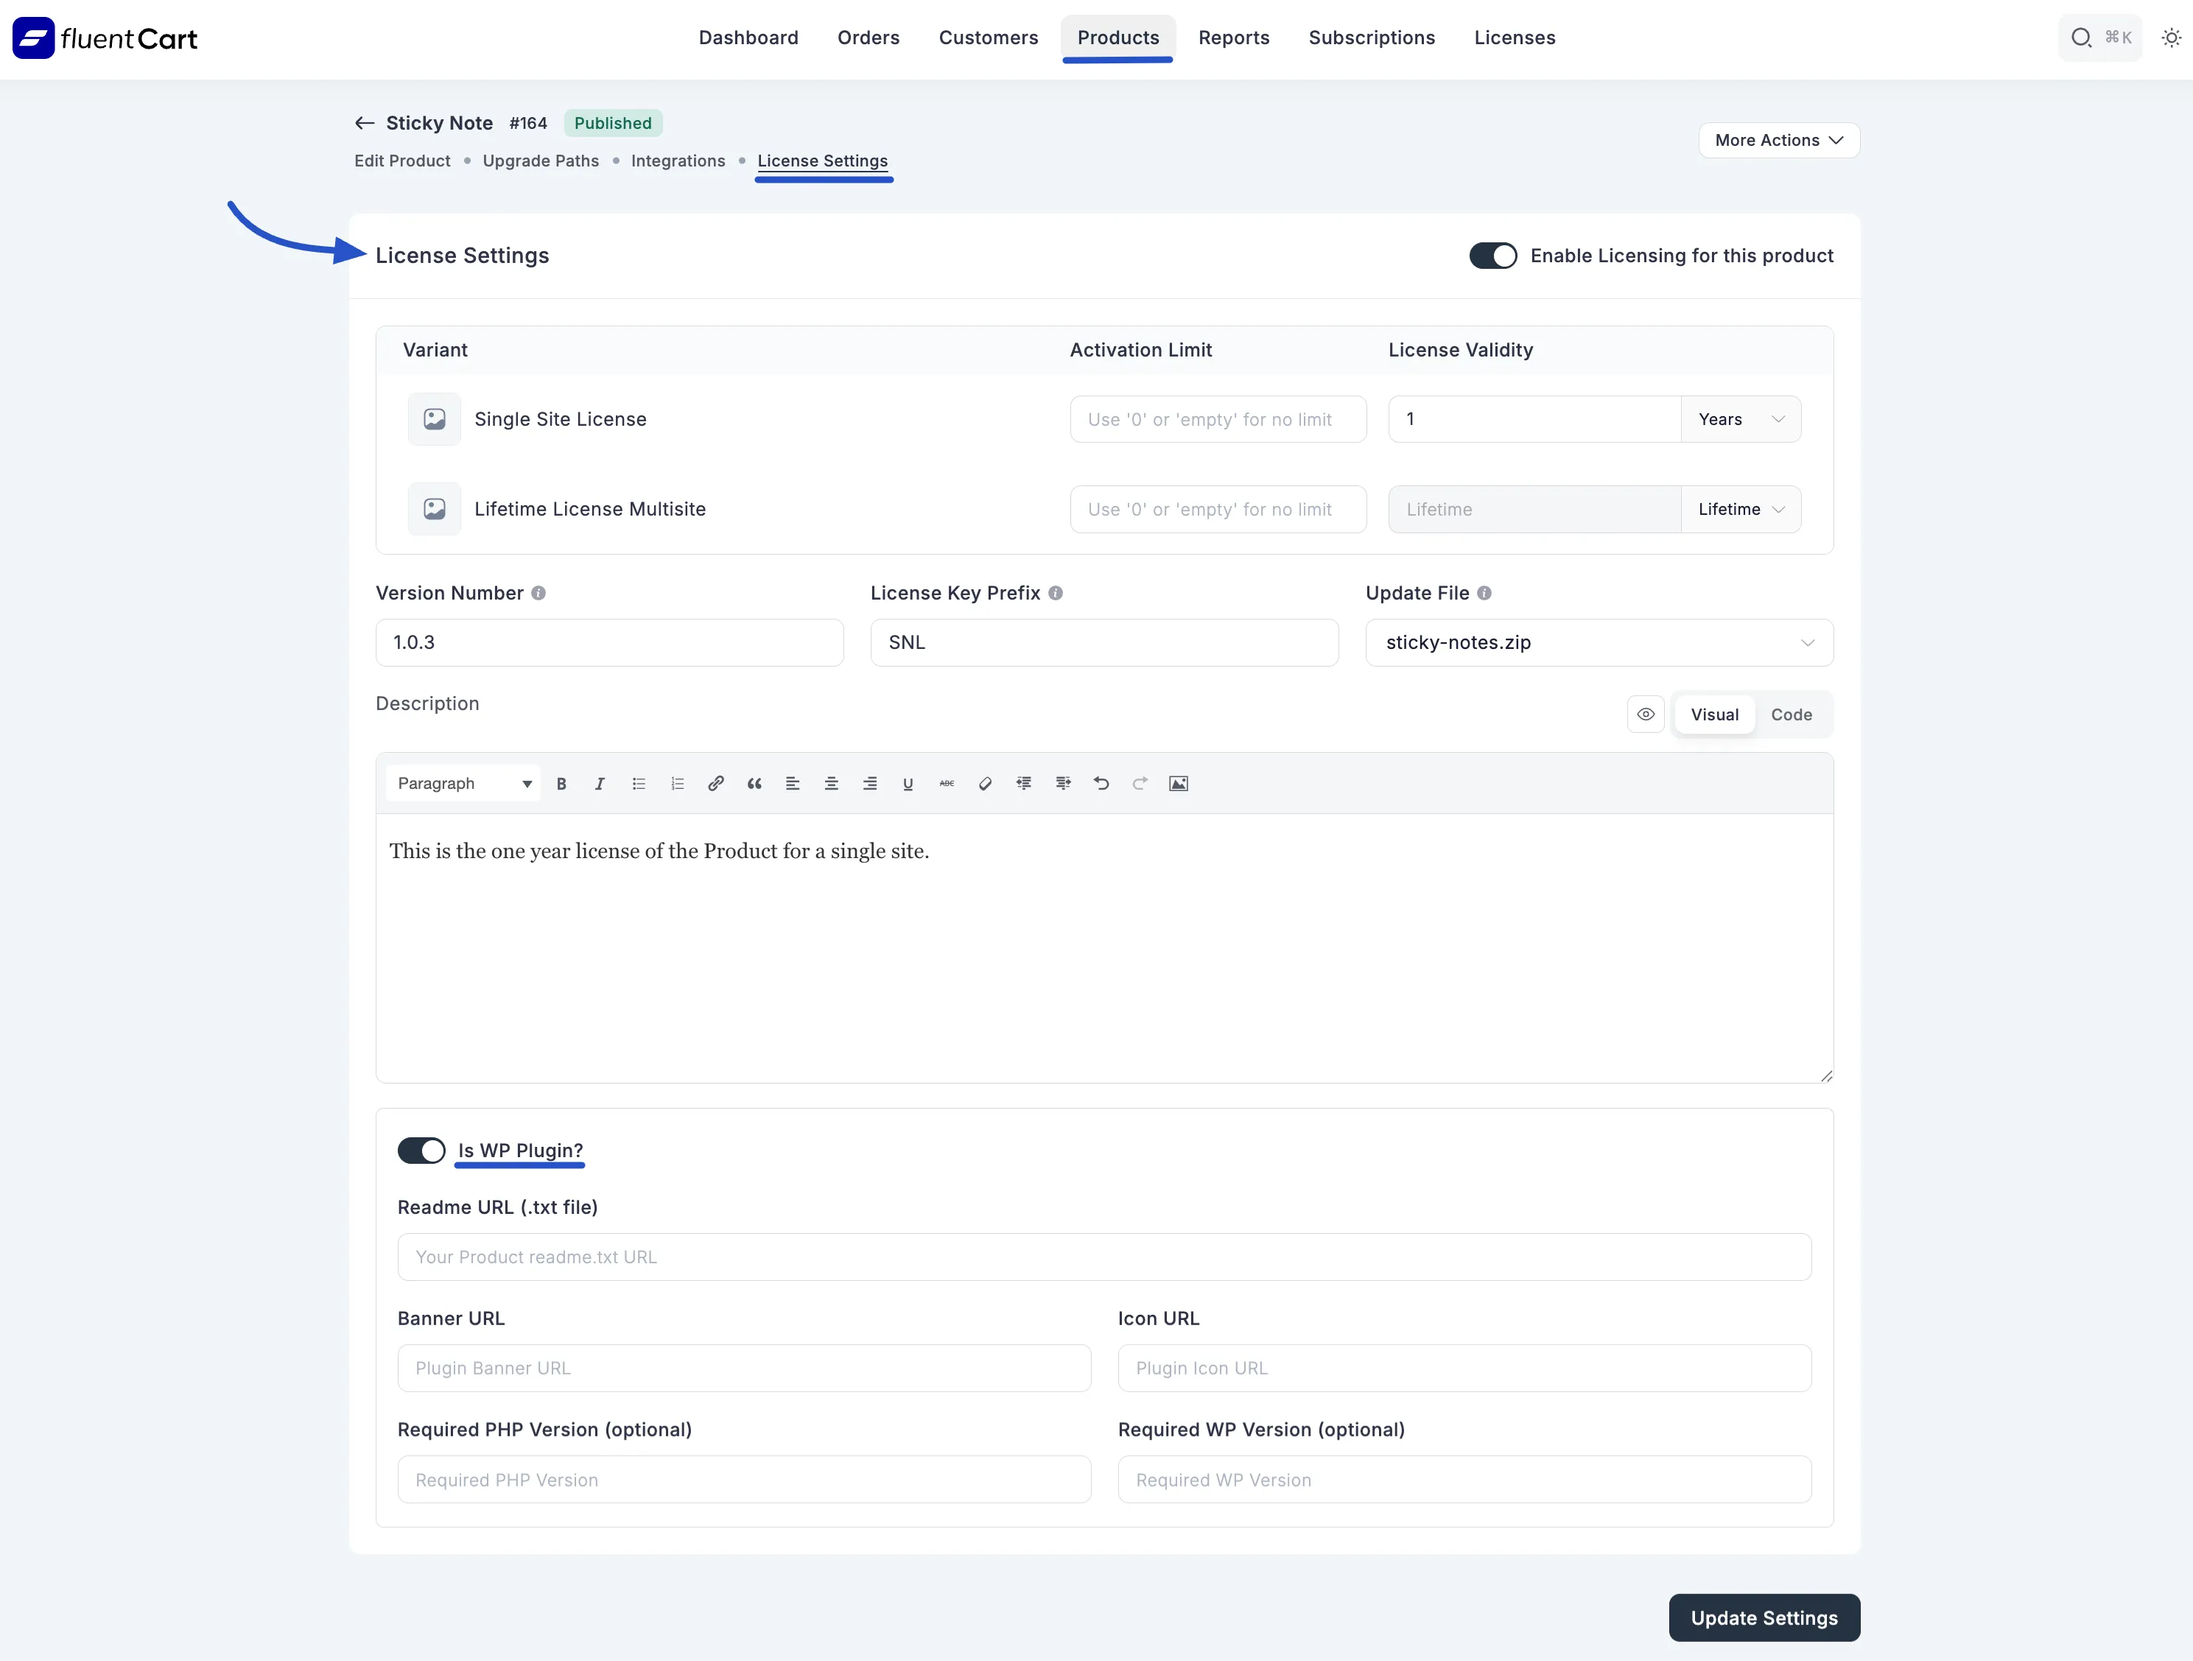
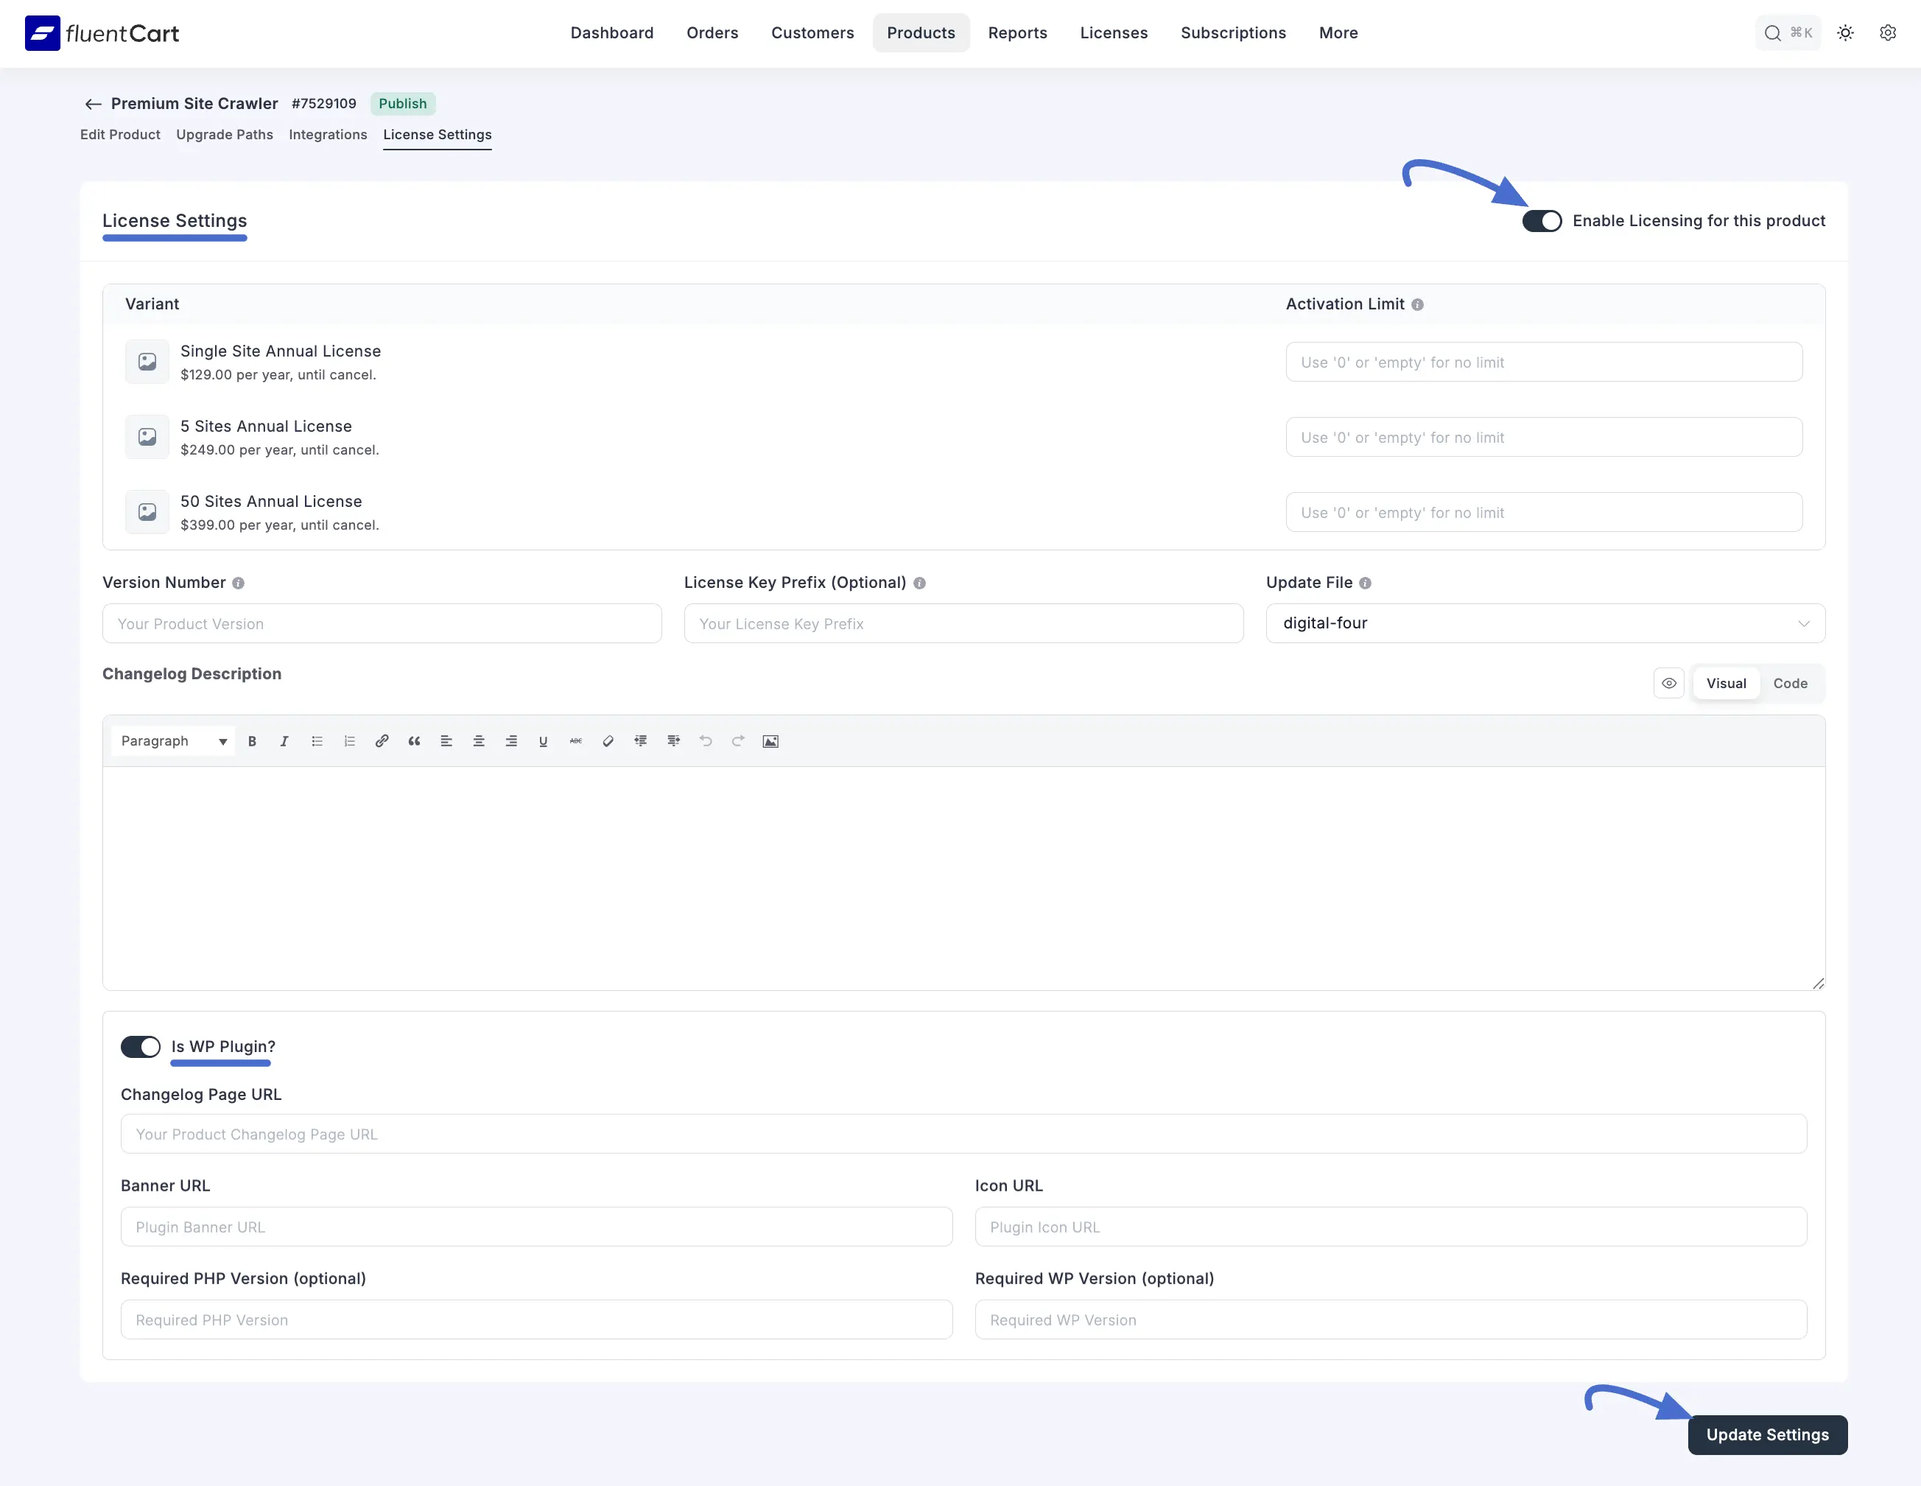
update Creating Digital Products with Licenses
Creating Digital Products with Licenses doc description and images changes

diff --git a/guide/product-types-creation/creating-digital-products-with-licenses.md b/guide/product-types-creation/creating-digital-products-with-licenses.md
@@ -101,23 +101,23 @@ Once the add-on is enabled, you can configure the license settings for each prod
 2.  **Enable Licensing for this product:** Ensure this checkbox is enabled to activate licensing for this product.
 
 3.  **License Configuration Table (Per Variant):**
-    * **Activation Limit:** For each license variant (e.g., "Single Site Yearly License"), set the number of times the license key can be activated (e.g., 50, 100).
-    * **License Validity:** Define the duration of the license for each variant:
-        * Enter a number of **"Years"**.
-        * Check **"Lifetime"** for an indefinite license.
+    * **Activation Limit:** For each license variant (e.g., "Single Site Annual License"), set the number of times the license key can be activated (e.g., 50, 100).
 
 4.  **Software/Plugin Specific Information:**
     * **Version Number:** Enter the current version of your digital product (e.g., "1.0.1").
-    * **Description:** Provide a description related to the license or software.
-    * **Is WP Plugin?:** Check this box if your product is a WordPress plugin.
-    * **Readme URL (.txt file):** If it's a WordPress plugin, provide the URL to its `readme.txt` file for update checks.
-    * **Update File:** This field typically displays the main downloadable asset used for software updates (e.g., `fluent-form-pro.zip`).
-    * **Banner URL:** Provide a URL for a plugin banner image.
-    * **Icon URL:** Provide a URL for a plugin icon image.
-    * **Required PHP Version (optional):** Specify the minimum PHP version required for your product.
-    * **Required WP Version (optional):** Specify the minimum WordPress version required for your product.
-    * **License Key Prefix:** Define a custom prefix for license keys generated for this product (e.g., "ff-").
+    * **License Key Prefix:** This adds a short prefix to every license key generated for this product. It's a great way to quickly identify keys from different products. For example, you could use ff- for Fluent Forms.
+    * **Update File:** This field shows the main downloadable file that will be used for software updates.
+    * **Changelog Description:** Here, you can write down what's new or what has changed in the latest version of your product. This information will be visible to your users.
+    
+5.  **Is WP Plugin?:** If the digital product you're selling is a WordPress plugin, check this box. This will reveal a few more fields specific to WordPress plugins.
 
+     * **Changelog Page URL:** Enter the web address for your plugin's changelog.
+     * **Banner URL:** Provide a link to a banner image for your plugin.
+     * **Icon URL:** Provide a link to an icon image for your plugin.
+     * **Required PHP Version (optional):** If your plugin needs a minimum version of PHP to work, you can specify it here.
+     * **Required WP Version (optional):** Similarly, if your plugin requires a minimum WordPress version, enter it here.
+
+After you've configured these settings, just click the **Update Settings** button to save your changes.
 
 ### 8. Managing Product Integrations (Product-Specific)
 
